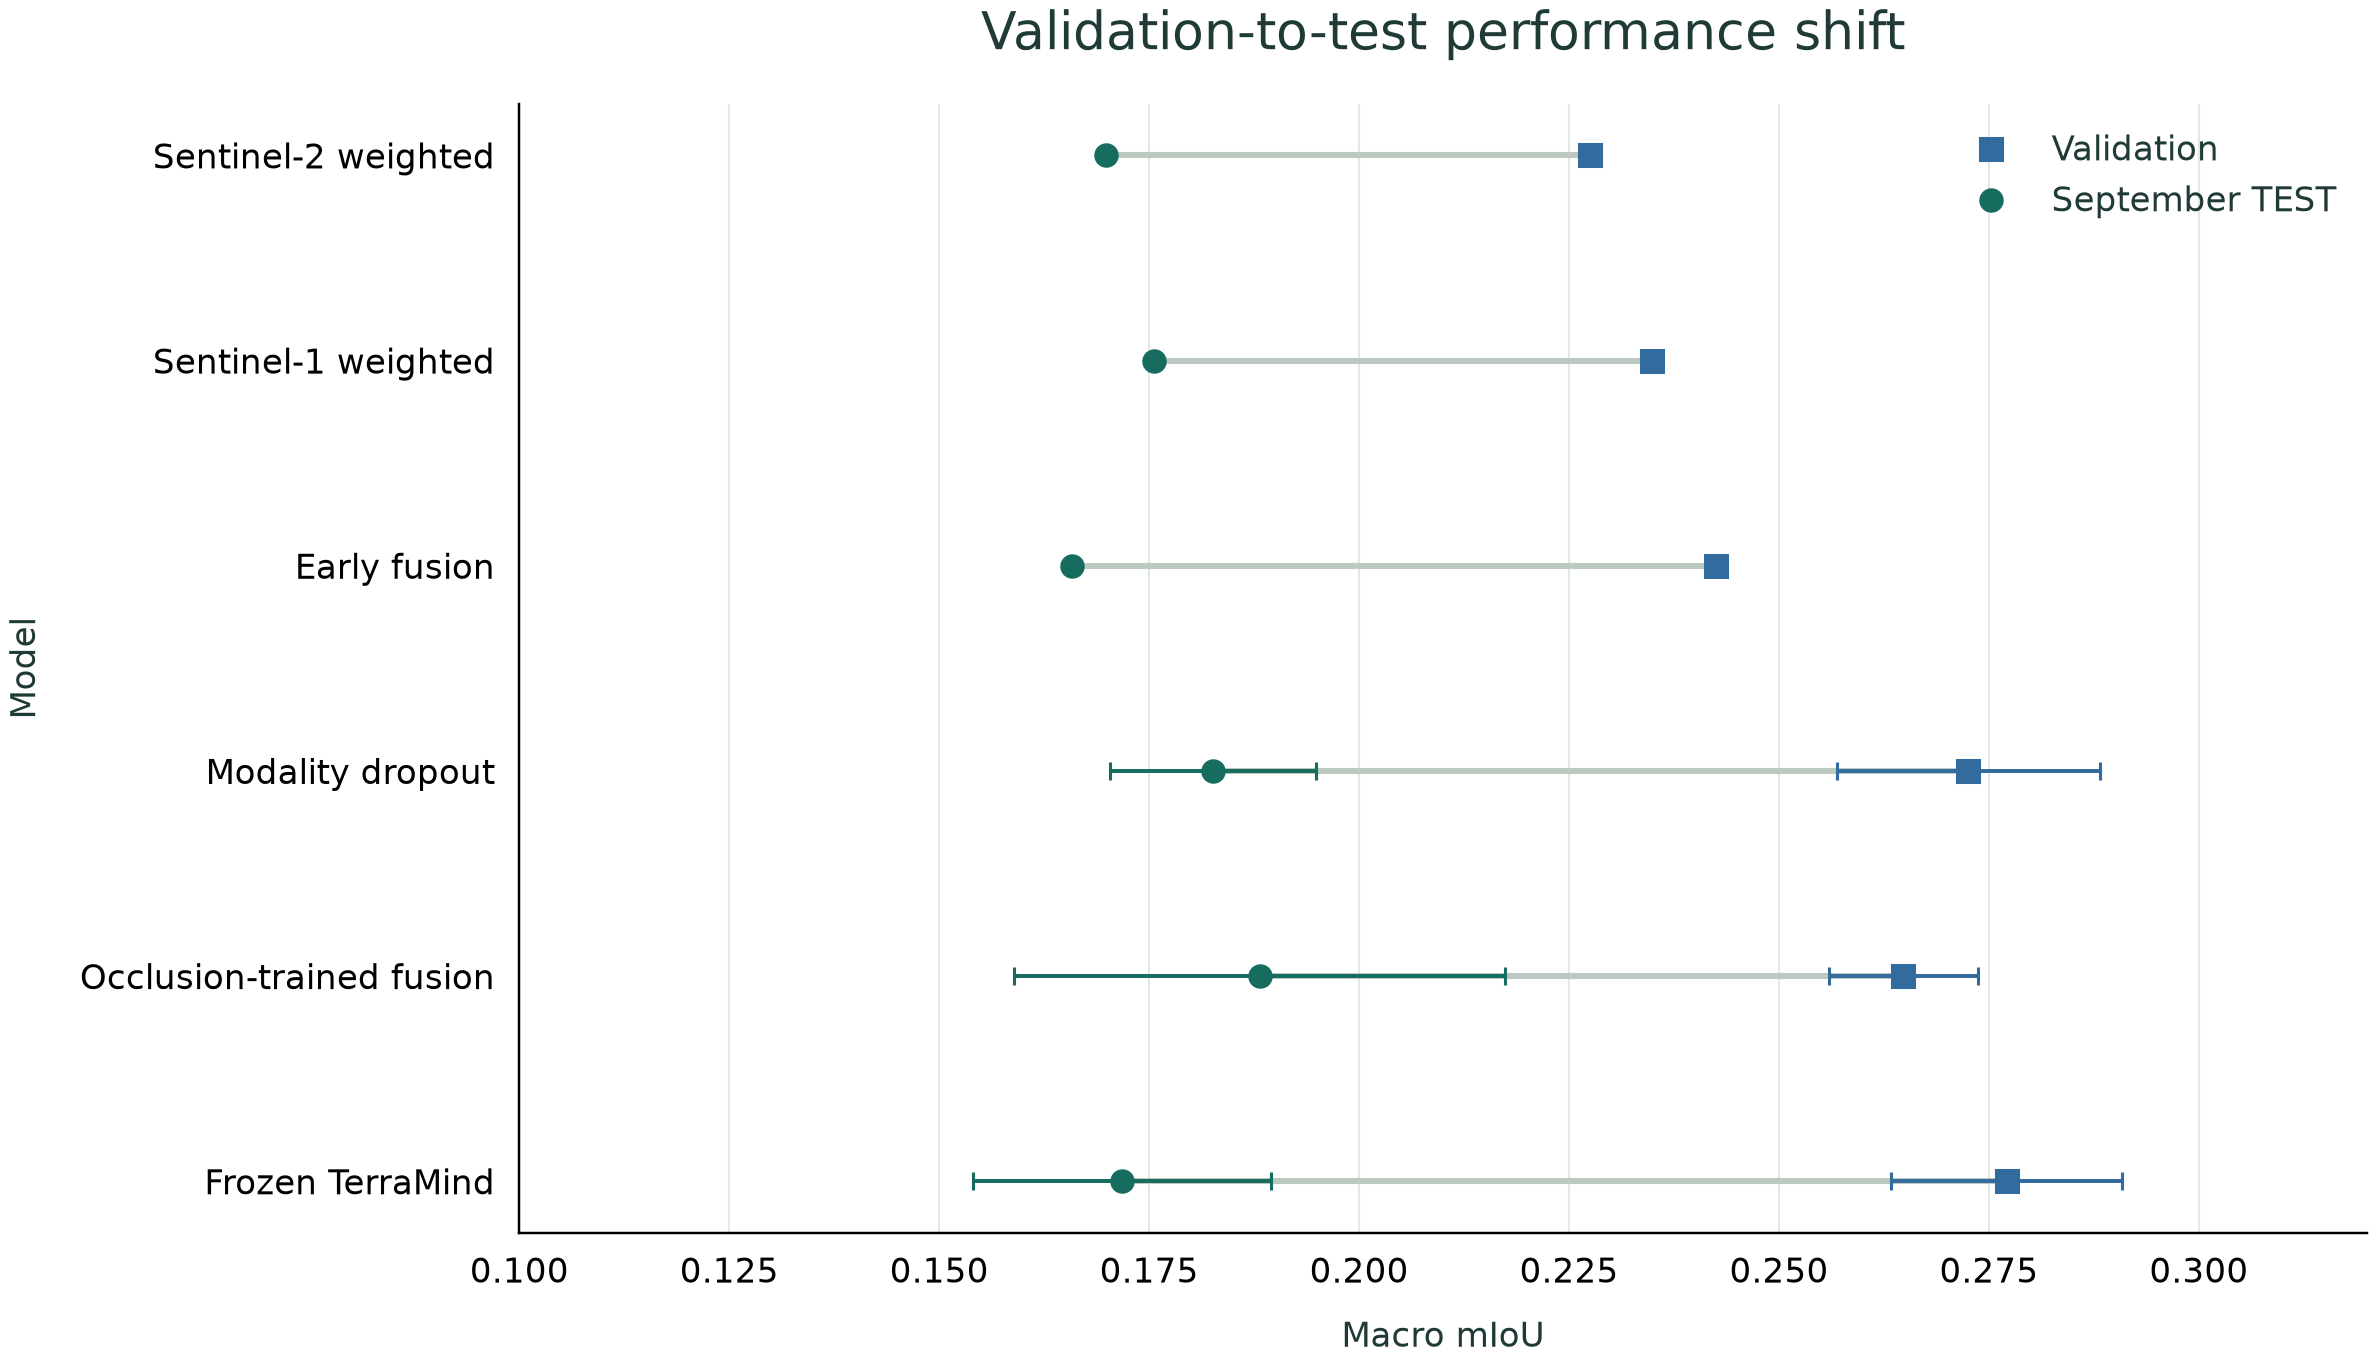
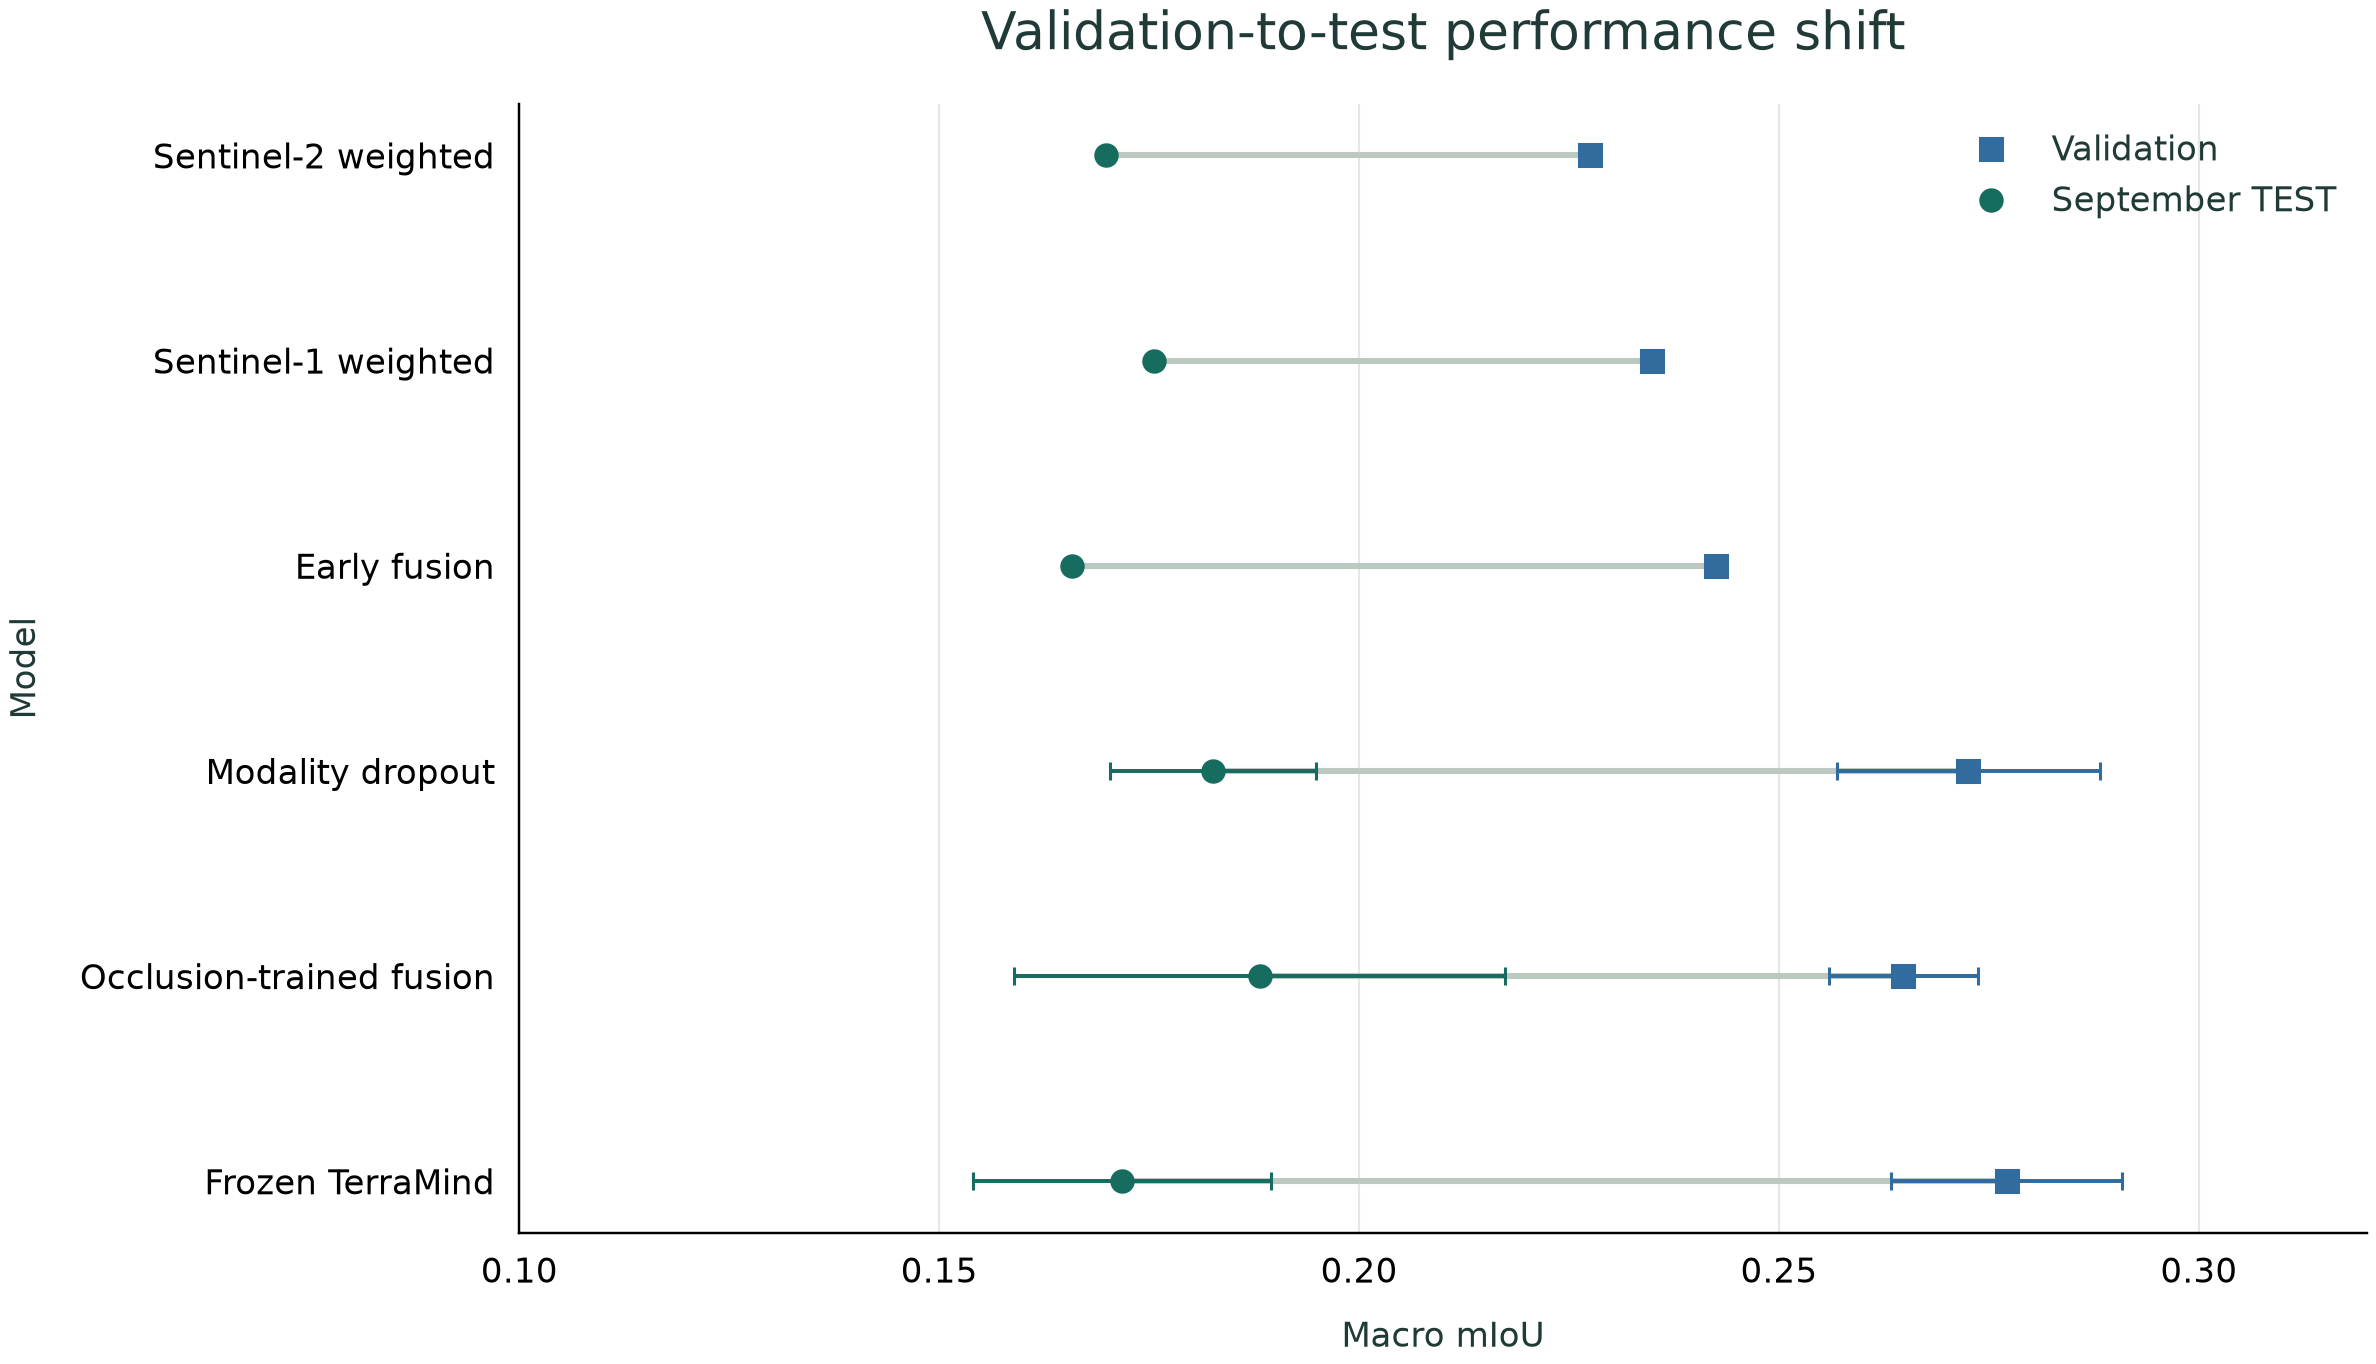
Refine final site responsiveness and scientific chart axes

diff --git a/site/index.html b/site/index.html
@@ -39,7 +39,7 @@
       <a class="button" href="#explore">Explore the results <span aria-hidden="true">↓</span></a>
     </div>
   </div>
-  <div class="headline-grid" aria-label="Headline held-out TEST findings">
+  <div class="headline-grid" aria-label="Headline held-out test findings">
     <article><span class="small-label">01 / Four-class TEST</span><strong data-headline="clean">0.1882 <small>± 0.0293</small></strong><p>Occlusion-trained fusion<br><b>Macro mIoU</b></p></article>
     <article><span class="small-label">02 / 70% optical occlusion</span><strong data-headline="occlusion">0.2122 <small>± 0.0115</small></strong><p>Occlusion-trained fusion<br><b>Macro mIoU</b></p></article>
     <article><span class="small-label">03 / Binary algae TEST</span><strong data-headline="terramind">0.6821 <small>± 0.0025</small></strong><p>Frozen TerraMind<br><b>Binary algae Dice</b></p></article>
@@ -50,7 +50,7 @@
 <section id="methods" class="section wrap" aria-labelledby="study-title">
   <div class="section-heading"><span class="section-number">01</span><div><p class="kicker">Study design</p><h2 id="study-title">Two sensors. One geographic grid.</h2></div></div>
   <p class="narrow">Sentinel-2 optical RGB and Sentinel-1 VV/VH radar are aligned to the same 224×224 tiles over Lough Neagh. DeepLab baselines test optical, SAR and early fusion; modality dropout and simulated optical occlusion test resilience. Frozen TerraMind provides a foundation-model comparison.</p>
-  <figure class="overview"><a href="assets/hero_overview.svg" aria-label="Open study schematic at full resolution"><img src="assets/hero_overview.svg" width="1440" height="960" alt="Sentinel-2 and Sentinel-1 feed multimodal GeoAI for four-class algae mapping, with missing-sensor and simulated-occlusion tests." loading="lazy"></a><figcaption>Study schematic · <a href="assets/hero_overview.png">PNG</a> / <a href="assets/hero_overview.svg">SVG</a></figcaption></figure>
+  <figure class="overview"><div class="schematic-scroll" tabindex="0" role="region" aria-label="Study schematic; scroll horizontally on narrow screens"><a href="assets/hero_overview.svg" aria-label="Open study schematic at full resolution"><img src="assets/hero_overview.svg" width="1440" height="960" alt="Sentinel-2 and Sentinel-1 feed multimodal GeoAI for four-class algae mapping, with missing-sensor and simulated-occlusion tests." loading="lazy"></a></div><figcaption>Study schematic · <a href="assets/hero_overview.png">PNG</a> / <a href="assets/hero_overview.svg">SVG</a></figcaption></figure>
   <div class="split-grid"><div><strong>621</strong><span>Train tiles · 8 dates</span></div><div><strong>111</strong><span>Validation tiles · 2 dates</span></div><div><strong>114</strong><span>TEST tiles · 2 dates</span></div></div>
   <p class="caption">Fixed date split · TEST: 8 &amp; 21 September 2025 · Background / Low algae / Mid algae / High algae; label 255 ignored.</p>
   <details><summary>Methods and fixed split</summary><p>DeepLabV3-MobileNetV3-Large uses RGB, VV/VH, or five-channel early fusion. All selected DeepLab models use the same class-weighted loss. Controlled training keeps 10 epochs, batch size 8, optimizer policy and spatial augmentations fixed. Modality dropout keeps both sensors for 50% of samples and removes each sensor for 25%; occlusion training additionally corrupts half of intact samples, with fractions sampled from 10–70%.</p><p>Frozen <code>terramind_v1_tiny</code> uses RGB + S1RTC and a lightweight four-class decoder, trained for 10 epochs at batch size 4. Rasterio uses the B04 grid, bilinear imagery resampling and nearest-neighbour labels; each modality is normalized separately.</p><p>TRAIN: 2025-01-31, 03-12, 04-08, 04-09, 05-16, 05-18, 05-21, 08-12. Validation: 2025-01-01 and 2025-06-20. TEST: 2025-09-08 and 2025-09-21.</p></details>
@@ -80,9 +80,9 @@
 </section>
 
 <section id="results" class="section wrap" aria-labelledby="results-title">
-  <div class="section-heading"><span class="section-number">04</span><div><p class="kicker">Final comparison</p><h2 id="results-title">Held-out September TEST</h2></div></div>
+  <div class="section-heading"><span class="section-number">04</span><div><p class="kicker">Final comparison</p><h2 id="results-title">Held-out September test</h2></div></div>
   <p class="narrow">Occlusion-trained fusion has the numerically highest clean four-class Macro mIoU; Frozen TerraMind has the highest Binary algae Dice.</p>
-  <figure><div class="figure-scroll" tabindex="0" role="region" aria-label="Clean TEST performance figure; scroll on narrow screens"><a href="assets/final_clean_model_comparison.svg"><img src="assets/final_clean_model_comparison.svg" width="1300" height="620" alt="Held-out September test performance, separating four-class Macro mIoU and Macro Dice from Binary algae Dice." loading="lazy"></a></div><figcaption>Four-class segmentation and binary detection shown separately. <a href="assets/final_clean_model_comparison.png">PNG</a> / <a href="assets/final_clean_model_comparison.svg">SVG</a><span class="mobile-hint"> · Swipe or scroll wide figures to read labels.</span></figcaption></figure>
+  <figure><div class="figure-scroll" tabindex="0" role="region" aria-label="Clean test performance figure; scroll on narrow screens"><a href="assets/final_clean_model_comparison.svg"><img src="assets/final_clean_model_comparison.svg" width="1300" height="620" alt="Held-out September test performance, separating four-class Macro mIoU and Macro Dice from Binary algae Dice." loading="lazy"></a></div><figcaption>Four-class segmentation and binary detection shown separately. <a href="assets/final_clean_model_comparison.png">PNG</a> / <a href="assets/final_clean_model_comparison.svg">SVG</a><span class="mobile-hint"> · Swipe or scroll wide figures to read labels.</span></figcaption></figure>
   <details><summary>Clean TEST values · all six models</summary><div class="table-scroll" tabindex="0" role="region" aria-label="Clean TEST results; scroll horizontally on small screens"><table><caption>Clean TEST · 114 tiles · 8 &amp; 21 September 2025</caption><thead><tr><th scope="col">Model</th><th scope="col">Runs</th><th scope="col">Macro mIoU</th><th scope="col">Macro Dice</th><th scope="col">Binary algae Dice</th></tr></thead><tbody><tr data-model="s2_weighted"><th scope="row">Sentinel-2 weighted</th><td>Single run</td><td data-metric="mean_iou">0.1698</td><td data-metric="macro_dice">0.2541</td><td data-metric="binary_algae_dice">0.6252</td></tr>
 <tr data-model="s1_weighted"><th scope="row">Sentinel-1 weighted</th><td>Single run</td><td data-metric="mean_iou">0.1756</td><td data-metric="macro_dice">0.2799</td><td data-metric="binary_algae_dice">0.5101</td></tr>
 <tr data-model="early_fusion"><th scope="row">Early fusion</th><td>Single run</td><td data-metric="mean_iou">0.1658</td><td data-metric="macro_dice">0.2700</td><td data-metric="binary_algae_dice">0.6136</td></tr>
@@ -106,7 +106,7 @@
 
 <section id="secondary" class="section tinted" aria-labelledby="secondary-title"><div class="wrap">
   <div class="section-heading"><span class="section-number">07</span><div><p class="kicker">Foundation models &amp; uncertainty</p><h2 id="secondary-title">Different strengths. Persistent limits.</h2></div></div>
-  <div class="two-col"><article><h3>Frozen TerraMind</h3><p>A frozen RGB + S1RTC backbone with a lightweight decoder achieved strong validation segmentation and binary TEST detection. Its four-class TEST performance did not consistently exceed the conventional models. TerraMind robustness was not evaluated.</p></article><article><h3>Ensemble uncertainty</h3><p>Probability ensembling improved validation calibration, but error-detection AUROC remained modest and missing-modality behaviour inconsistent. Better calibration did not establish reliable failure detection.</p></article></div>
+  <div class="two-col"><article><h3>Frozen TerraMind</h3><p>A frozen RGB + S1RTC backbone with a lightweight decoder achieved strong validation segmentation and binary test detection. Its four-class test performance did not consistently exceed the conventional models. TerraMind robustness was not evaluated.</p></article><article><h3>Ensemble uncertainty</h3><p>Probability ensembling improved validation calibration, but error-detection AUROC remained modest and missing-modality behaviour inconsistent. Better calibration did not establish reliable failure detection.</p></article></div>
 </div></section>
 
 <section id="notes" class="section wrap" aria-labelledby="notes-title">

diff --git a/site/explorer.js b/site/explorer.js
@@ -40,10 +40,10 @@
       target.appendChild(card);
     }
   }
-  function horizontalAxis(maximum,label) {
+  function horizontalAxis(maximum,label,ticks = [0, maximum/4, maximum/2, maximum*3/4, maximum]) {
     const scale=v=>260+v/maximum*590;
-    for(let i=0;i<=4;i++) {
-      const v=maximum*i/4,x=scale(v);
+    for(const v of ticks) {
+      const x=scale(v);
       line(x,35,x,345);text(x,374,v.toFixed(2),{'text-anchor':'middle'});
     }
     text(555,408,label,{'text-anchor':'middle',class:'axis-label'});
@@ -52,9 +52,9 @@
   function renderOptical() {
     const rate=Number(byId('occlusion-rate').value);
     start(`Macro mIoU at measured optical occlusion rates; selected ${rate}%`);
-    const x=r=>85+r/70*740,y=v=>335-v/.28*290;
-    for (let i=0;i<=4;i++) {
-      const v=i*.07;line(85,y(v),825,y(v));text(70,y(v)+6,v.toFixed(2),{'text-anchor':'end'});
+    const x=r=>85+r/70*740,y=v=>335-v/.30*290;
+    for (const v of [0,.05,.10,.15,.20,.25,.30]) {
+      line(85,y(v),825,y(v));text(70,y(v)+6,v.toFixed(2),{'text-anchor':'end'});
     }
     for(const r of data.occlusion_rates) text(x(r),367,`${r}`,{'text-anchor':'middle'});
     text(455,408,'Optical occlusion rate (%)',{'text-anchor':'middle',class:'axis-label'});
@@ -78,7 +78,7 @@
   }
   function renderComparison() {
     const metric=byId('comparison-metric').value;
-    start(`Clean September TEST comparison: ${names[metric]}`);
+    start(`Clean September test comparison: ${names[metric]}`);
     const scale=horizontalAxis(metric==='mean_iou'?.30:metric==='macro_dice'?.40:.80,names[metric]);
     const cards=[];
     data.models.forEach((m,i)=>{
@@ -92,7 +92,7 @@
   function renderTemporal() {
     const selected=byId('temporal-model').value,model=data.models.find(m=>m.id===selected);
     start(`Validation-to-test Macro mIoU; highlighted ${model.label}`);
-    const scale=horizontalAxis(.35,'Macro mIoU');
+    const scale=horizontalAxis(.35,'Macro mIoU',[0,.10,.20,.30]);
     data.models.forEach((m,i)=>{
       const y=60+i*53;
       if(m.id===selected) node('rect',{x:5,y:y-22,width:890,height:45,rx:4,class:'selected-row'});

diff --git a/site/style.css b/site/style.css
@@ -104,7 +104,7 @@ pre code { font-size:inherit; }
 .finding-grid article { border-top:2px solid var(--accent); padding-top:18px; }
 .finding-grid p { font-size:15px; }
 .figure-scroll { overflow-x:auto; border:1px solid var(--line); border-radius:6px; background:#fff; }
-.figure-scroll img { width:100%; min-width:1000px; border:0; border-radius:0; }
+.figure-scroll img { width:100%; height:auto; border:0; border-radius:0; }
 .figure-scroll a { display:block; }
 .mobile-hint { display:none; }
 .mode-controls { display:flex; flex-wrap:wrap; gap:8px; margin:25px 0; }
@@ -154,3 +154,9 @@ select:focus-visible { outline:3px solid var(--focus); outline-offset:4px; }
   .figure-scroll img { min-width:1000px; }
 }
 @media(prefers-reduced-motion:reduce) { *,*::before,*::after { scroll-behavior:auto!important; animation:none!important; transition:none!important; } }
+
+/* Wide figures fit their container; narrow screens retain readable scrollable plots. */
+.schematic-scroll { max-width:100%; overflow-x:auto; }
+.schematic-scroll a { display:block; }
+@media(max-width:1000px) { .figure-scroll img { min-width:1000px; } }
+@media(max-width:640px) { .schematic-scroll img { width:900px; min-width:900px; max-width:none; } }

diff --git a/scripts/render_final_presentation.py b/scripts/render_final_presentation.py
@@ -93,6 +93,7 @@ def render():
         point(ax,val,y,BLUE,'s','Validation' if y==0 else None)
         point(ax,test,y,TEAL,'o','September TEST' if y==0 else None)
     ax.set_yticks(range(6),labels);ax.invert_yaxis();ax.set_xlim(.10,.32)
+    ax.set_xticks([.10,.15,.20,.25,.30], ['0.10','0.15','0.20','0.25','0.30'])
     setup(ax,'Macro mIoU','Model');ax.legend(loc='upper right',frameon=False)
     ax.set_title('Validation-to-test performance shift',fontsize=17,pad=18)
     save(fig,'final_temporal_generalisation')
